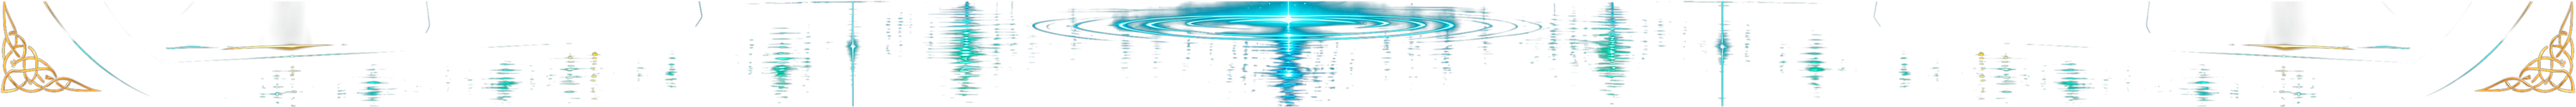
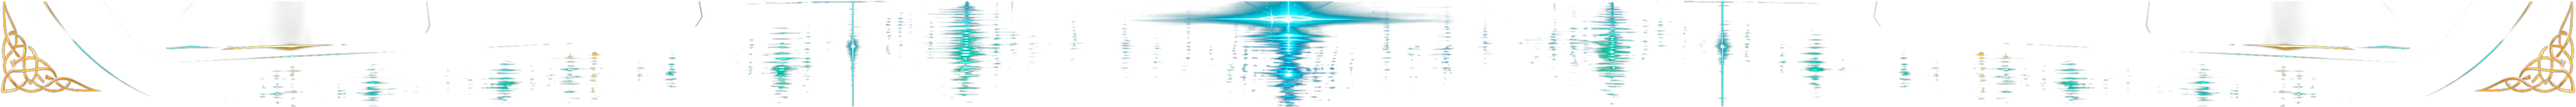
Szene: starre Wasserringe entfernt (Magnific), Wellenringe pulsieren mit Tempo-Rampe (schnell los, langsam aus), Rauch als Wolkenbäusche ohne Kanten, Schriftzug eingraviert, Drachen weiter außen, Bedeutung läuft im drehenden Runenring mit; Runen unter dem Horizont ausgeblendet; Prüfhilfe ?aus=…

Changed region(s): [[0.3746, 0.0, 0.6243, 0.443]]

diff --git a/hud5/szene.js b/hud5/szene.js
@@ -18,21 +18,39 @@ function bildLaden(url) {
 function leinwand(b, h) { const c = document.createElement('canvas'); c.width = b; c.height = h; return c }
 function zufallsfolge(s) { return () => { s = (s * 16807) % 2147483647; return s / 2147483647 } }
 
-/** Runenring vorzeichnen: volle Runde, Runen tangential, mit Lichthof (einmal beim Laden) */
-function ringBild(r, hoehe, anzahl, versatz = 0) {
+/**
+ * Runenring vorzeichnen: volle Runde, Runen tangential, mit Lichthof (einmal beim Laden). Mit `text` läuft dazu ein
+ * Schriftzug im Ring mit (Wunsch Auftraggeber 05.11.2026: die volle Bedeutung von L.O.K.I. dreht sich mit) – an seiner
+ * Stelle entfallen so viele Runen, wie er Platz braucht.
+ */
+function ringBild(r, hoehe, anzahl, versatz = 0, text = '') {
   const rand = hoehe * 2, gr = Math.ceil(2 * (r + rand))
   const c = leinwand(gr, gr), g = c.getContext('2d')
   g.translate(gr / 2, gr / 2)
   g.lineCap = 'round'; g.lineJoin = 'round'
+  g.font = `600 ${Math.round(hoehe * 0.72)}px Georgia, "Times New Roman", serif`; g.textAlign = 'center'; g.textBaseline = 'middle'
+  const schritt = (Math.PI * 2) / anzahl, abstand = hoehe * 0.12
+  const breiten = [...text].map((z) => (g.measureText(z).width + abstand) / r)
+  const textWinkel = breiten.reduce((a, b) => a + b, 0)
+  const frei = text ? Math.ceil((textWinkel + schritt) / schritt) : 0 // Runen-Plätze, die der Text belegt
   for (let durchgang = 0; durchgang < 2; durchgang++) {
     // erst weiches Leuchten, dann der scharfe helle Kern
-    g.strokeStyle = durchgang ? '#d8fdff' : CYAN
+    g.strokeStyle = g.fillStyle = durchgang ? '#d8fdff' : CYAN
     g.lineWidth = durchgang ? Math.max(1.4, hoehe * 0.075) : hoehe * 0.12
     g.shadowColor = CYAN; g.shadowBlur = durchgang ? hoehe * 0.35 : hoehe * 0.9
     for (let i = 0; i < anzahl; i++) {
-      g.save(); g.rotate((i / anzahl) * Math.PI * 2); g.translate(0, -r)
+      // Plätze rund um 0 (oben) für den Text frei lassen
+      const abstandZurMitte = Math.min(i, anzahl - i)
+      if (frei && abstandZurMitte <= (frei - 1) / 2) continue
+      g.save(); g.rotate(i * schritt); g.translate(0, -r)
       rune(g, FOLGE[(i + versatz) % FOLGE.length], hoehe)
       g.restore()
+    }
+    let w = -textWinkel / 2 // von links nach rechts über die Oberseite
+    for (const [i, z] of [...text].entries()) {
+      w += breiten[i] / 2
+      g.save(); g.rotate(w); g.translate(0, -r); g.fillText(z, 0, 0); g.restore()
+      w += breiten[i] / 2
     }
   }
   return c
@@ -42,8 +60,8 @@ function ringBild(r, hoehe, anzahl, versatz = 0) {
 function ringMaske(gr) {
   const c = leinwand(gr, gr), g = c.getContext('2d')
   const v = g.createConicGradient(Math.PI / 2, gr / 2, gr / 2) // beginnt unten, läuft im Uhrzeigersinn
-  v.addColorStop(0, 'rgba(0,0,0,0)'); v.addColorStop(0.07, 'rgba(0,0,0,0)'); v.addColorStop(0.2, '#000')
-  v.addColorStop(0.8, '#000'); v.addColorStop(0.93, 'rgba(0,0,0,0)'); v.addColorStop(1, 'rgba(0,0,0,0)')
+  v.addColorStop(0, 'rgba(0,0,0,0)'); v.addColorStop(0.13, 'rgba(0,0,0,0)'); v.addColorStop(0.25, '#000')
+  v.addColorStop(0.75, '#000'); v.addColorStop(0.87, 'rgba(0,0,0,0)'); v.addColorStop(1, 'rgba(0,0,0,0)') // unter dem Horizont keine Runen
   g.fillStyle = v; g.fillRect(0, 0, gr, gr)
   return c
 }
@@ -127,7 +145,7 @@ export async function ladeSzene(basis) {
   const namen = ['grund', ...Object.keys(geo.ebenen)]
   const bilder = Object.fromEntries(await Promise.all(namen.map(async (n) => [n, await bildLaden(basis + n + '.webp')])))
   const zufall = zufallsfolge(7)
-  const ringMitte = ringBild(geo.ringMitte.r, 30, 24)
+  const ringMitte = ringBild(geo.ringMitte.r, 30, 24, 0, 'LOKALE · OHNEHIN · KLÜGERE · INTELLIGENZ')
   return {
     geo, bilder,
     ringMitte, ringMitteMaske: ringMaske(ringMitte.width), ringPuffer: leinwand(ringMitte.width, ringMitte.height),
@@ -136,8 +154,7 @@ export async function ladeSzene(basis) {
     bahnRechts: bahnVorbereiten(geo.bahnRechts, false),
     nebel: nebelBild(2400, 300, zufall),
     nebel2: nebelBild(2400, 300, zufall, 60),
-    rauchStreifen: leinwand(1900, 260), rauchMaske: rauchMaske(1900, 260),
-    bedeutung: bedeutungBild(),
+    rauchStreifen: leinwand(1700, 300), rauchMaske: rauchMaske(1700, 300), wolke: wolkeBild(1024, 220, zufall),
     spiegel: geo.ebenen.reaktor ? spiegelBild(bilder.reaktor, geo.ebenen.reaktor) : null,
     blitze: [], naechsterBlitz: 0,
   }
@@ -196,79 +213,76 @@ function wasser(g, s, t, anteil) {
   g.globalAlpha = 1; g.globalCompositeOperation = 'source-over'
 }
 
-// Unter dem Reaktor (Rückmeldung Auftraggeber 05.11.2026): keine Nebelfläche über dem ganzen See, sondern Rauchwolken
-// nur zwischen Reaktor und Wasser rund um die Lichtringe; die Ringe laufen sanft von innen nach außen wie Wellen nach
-// einem Steinwurf, der Rauch liegt darüber.
-const RING_MITTE = { x: 2880, y: 890 }, RING_RX = 600, RING_RY = 46 // Lichtringe auf dem Wasser (Grundbild)
+// Unter dem Reaktor (Rückmeldung Auftraggeber 05.11.2026): die starren Lichtringe sind aus dem Grundbild entfernt
+// (Magnific), stattdessen pulsieren Wellenringe von innen nach außen – schnell los, dann langsam ausklingend (wie eine
+// Tempo-Rampe im Video) –, darüber liegen Rauchwolken nur zwischen Reaktor und Wasser.
+const RING_MITTE = { x: 2880, y: 890 }, RING_RX = 640, RING_RY = 48
 
-/** Wellenringe: alle 2,6 s ein neuer, wächst von innen nach außen, wird dabei dünner und blasser */
+/** Wellenringe: alle 3,2 s ein neuer Puls; Radius läuft mit starker Abbremsung (schnell → langsam), Licht klingt aus */
 function wellen(g, t, anteil) {
   if (anteil <= 0) return
-  const takt = 2.6, lebens = 7.5
+  const takt = 3.2, lebens = 9
   g.save(); g.globalCompositeOperation = 'lighter'
   for (let k = Math.floor((t - lebens) / takt) + 1; k * takt <= t; k++) {
     const f = (t - k * takt) / lebens
     if (f < 0 || f > 1) continue
-    const rx = 30 + f * RING_RX * 1.05, ry = rx * (RING_RY / RING_RX)
-    const deck = anteil * Math.min(1, f / 0.08) * (1 - f) ** 1.6
-    for (const [breite, farbe, d] of [[9, 'rgba(95,246,255,1)', 0.12], [3, 'rgba(150,250,255,1)', 0.35], [1.2, '#eaffff', 0.7]]) {
+    const weg = 1 - (1 - f) ** 4 // Tempo-Rampe: schnell anfangen, lange langsam auslaufen
+    const rx = 20 + weg * RING_RX, ry = rx * (RING_RY / RING_RX)
+    const deck = anteil * Math.min(1, f / 0.03) * (1 - f) ** 2.2
+    for (const [breite, farbe, d] of [[12, 'rgba(95,246,255,1)', 0.13], [4, 'rgba(150,250,255,1)', 0.4], [1.4, '#eaffff', 0.85]]) {
       g.beginPath(); g.ellipse(RING_MITTE.x, RING_MITTE.y, rx, ry, 0, 0, Math.PI * 2)
-      g.lineWidth = breite * (1 - f * 0.5); g.strokeStyle = farbe; g.globalAlpha = deck * d; g.stroke()
+      g.lineWidth = breite * (1.2 - weg * 0.6); g.strokeStyle = farbe; g.globalAlpha = deck * d; g.stroke()
     }
   }
   g.restore()
 }
 
-/** Rauch zwischen Reaktor und Wasser: weiche Wolken, die langsam um die Mitte treiben, zusammengehalten von einer
- *  elliptischen Maske (dicht in der Mitte, zum Rand weich) – der Reaktor darüber bleibt frei */
+/** Rauch zwischen Reaktor und Wasser: wolkige, gebauschte Schwaden (eigene Rauchtextur), zwei Lagen gegenläufig,
+ *  elliptisch nach allen Seiten weich ausgeblendet – keine Kanten, der Reaktor darüber bleibt frei */
 function rauch(g, s, t, anteil) {
   if (anteil <= 0) return
-  const st = s.rauchStreifen, sg = st.getContext('2d')
+  const st = s.rauchStreifen, sg = st.getContext('2d'), w = s.wolke
   sg.globalCompositeOperation = 'source-over'; sg.clearRect(0, 0, st.width, st.height)
-  for (const [bild, tempo, dy, hoch, deck] of [[s.nebel, 9, -40, 1.1, 1], [s.nebel2, -7, 0, 1.0, 1], [s.nebel, 5, 50, 0.9, 0.9], [s.nebel2, -3, -90, 1.2, 0.8]]) {
+  for (const [tempo, dy, skala, deck] of [[7, 30, 1, 1], [-4.5, 70, 1.35, 0.85], [2.5, 10, 0.8, 0.7]]) {
     sg.globalAlpha = deck
-    const start = -(((t * tempo) % bild.width) + bild.width) % bild.width
-    for (let px = start; px < st.width; px += bild.width) sg.drawImage(bild, px, dy, bild.width, bild.height * hoch)
+    const bw = w.width * skala, bh = w.height * skala, start = -(((t * tempo) % bw) + bw) % bw
+    for (let px = start; px < st.width; px += bw) sg.drawImage(w, px, dy + Math.sin(t * 0.2 + skala) * 8, bw, bh)
   }
   sg.globalAlpha = 1; sg.globalCompositeOperation = 'destination-in'; sg.drawImage(s.rauchMaske, 0, 0)
   g.globalCompositeOperation = 'screen'
-  for (const d of [1, 0.7]) { g.globalAlpha = anteil * d; g.drawImage(st, RING_MITTE.x - st.width / 2, RING_MITTE.y - st.height * 0.62) }
+  for (const d of [1, 0.6]) { g.globalAlpha = anteil * d; g.drawImage(st, RING_MITTE.x - st.width / 2, RING_MITTE.y - st.height * 0.55) } // doppelt: dichter, wolkiger
   g.globalAlpha = 1; g.globalCompositeOperation = 'source-over'
 }
 
-/** elliptische Maske für den Rauch: Mitte dicht, Rand weich, oben (zum Reaktor) schneller ausgeblendet */
+/** elliptische Maske: Mitte dicht, nach allen Seiten weich auf null (unten, oben, links, rechts – keine harte Kante) */
 function rauchMaske(b, h) {
   const c = leinwand(b, h), g = c.getContext('2d')
-  g.save(); g.translate(b / 2, h * 0.62); g.scale(1, (h * 0.5) / (b / 2))
+  g.translate(b / 2, h * 0.55); g.scale(1, (h * 0.45) / (b / 2))
   const v = g.createRadialGradient(0, 0, 0, 0, 0, b / 2)
-  v.addColorStop(0, '#000'); v.addColorStop(0.45, 'rgba(0,0,0,0.85)'); v.addColorStop(1, 'rgba(0,0,0,0)')
-  g.fillStyle = v; g.fillRect(-b / 2, -b, b, 2 * b); g.restore()
-  g.globalCompositeOperation = 'destination-in'
-  const u = g.createLinearGradient(0, 0, 0, h); u.addColorStop(0, 'rgba(0,0,0,0)'); u.addColorStop(0.35, '#000'); u.addColorStop(1, '#000')
-  g.fillStyle = u; g.fillRect(0, 0, b, h)
+  v.addColorStop(0, '#000'); v.addColorStop(0.4, 'rgba(0,0,0,0.9)'); v.addColorStop(0.75, 'rgba(0,0,0,0.35)'); v.addColorStop(1, 'rgba(0,0,0,0)')
+  g.fillStyle = v; g.fillRect(-b / 2, -b, b, 2 * b)
   return c
 }
 
-/** volle Bedeutung von L.O.K.I. direkt unter dem Steinring, ihm folgend gebogen (im Steinband selbst war neben
- *  Schriftzug, Drachen und Metallplatten kein Platz) */
-const BEDEUTUNG = 'LOKALE · OHNEHIN · KLÜGERE · INTELLIGENZ', BEDEUTUNG_R = 348
-function bedeutungBild(r) {
-  const gr = Math.ceil((BEDEUTUNG_R + 40) * 2), c = leinwand(gr, gr), g = c.getContext('2d')
-  g.translate(gr / 2, gr / 2)
-  g.font = '600 15px Georgia, "Times New Roman", serif'; g.textAlign = 'center'; g.textBaseline = 'middle'
-  const abstand = 1.6, breiten = [...BEDEUTUNG].map((z) => g.measureText(z).width + abstand)
-  const gesamt = breiten.reduce((a, b) => a + b, 0) / BEDEUTUNG_R
-  for (let d = 0; d < 2; d++) {
-    let w = Math.PI / 2 + gesamt / 2 // unten mittig, von links nach rechts lesbar (Buchstaben-Kopf zur Mitte)
-    g.fillStyle = d ? '#e6feff' : '#5ff6ff'; g.shadowColor = '#5ff6ff'; g.shadowBlur = d ? 4 : 10
-    for (const [i, z] of [...BEDEUTUNG].entries()) {
-      const halb = breiten[i] / 2 / BEDEUTUNG_R
-      w -= halb
-      g.save(); g.translate(Math.cos(w) * BEDEUTUNG_R, Math.sin(w) * BEDEUTUNG_R); g.rotate(w - Math.PI / 2); g.fillText(z, 0, 0); g.restore()
-      w -= halb
+/** Rauchtextur: viele weiche, verschieden große Bäusche (große blasse unten, kleine dichtere darüber), dazwischen
+ *  Lücken – wirkt wolkig statt flächig; waagerecht nahtlos wiederholbar; einmal beim Laden gezeichnet */
+function wolkeBild(b, h, zufall) {
+  const c = leinwand(b, h), g = c.getContext('2d')
+  const bausch = (x, y, r, a) => {
+    for (const dx of [-b, 0, b]) {
+      const v = g.createRadialGradient(x + dx, y, 0, x + dx, y, r)
+      v.addColorStop(0, `rgba(185,228,238,${a})`); v.addColorStop(0.5, `rgba(170,220,232,${a * 0.55})`); v.addColorStop(1, 'rgba(160,215,228,0)')
+      g.fillStyle = v; g.fillRect(x + dx - r, y - r, 2 * r, 2 * r)
     }
   }
-  void r
+  // Ballen: Gruppen von Bäuschen um gemeinsame Mittelpunkte → Wolkenform mit Rändern und Lücken
+  for (let k = 0; k < 26; k++) {
+    const mx = zufall() * b, my = h * (0.35 + zufall() * 0.35), gr = 40 + zufall() * 70
+    for (let i = 0; i < 16; i++) {
+      const w = zufall() * Math.PI * 2, d = zufall() * gr
+      bausch(mx + Math.cos(w) * d * 1.8, my + Math.sin(w) * d * 0.5, 18 + zufall() * 38, 0.09 + zufall() * 0.12)
+    }
+  }
   return c
 }
 
@@ -437,15 +451,12 @@ function mittelRing(g, s, winkel, alpha) {
   g.globalAlpha = 1; g.globalCompositeOperation = 'source-over'
 }
 
-/** verkleinerter L.O.K.I.-Schriftzug mit Drachen (atmet leicht mit dem Kern) und die volle Bedeutung darunter */
+/** verkleinerter L.O.K.I.-Schriftzug mit Drachen, in den Stein graviert (dunkle Rille), leuchtet leicht im Takt des Kerns */
 function schrift(g, s, t, anteil) {
   if (anteil <= 0) return
   const hell = anteil * (0.9 + 0.1 * Math.sin((t * Math.PI * 2) / 2.8))
+  ebene(g, s, 'gravur', anteil * 0.75, 'source-over')
   ebene(g, s, 'schrift', hell)
-  const b = s.bedeutung, r = s.geo.reaktor
-  g.globalAlpha = hell * 0.95; g.globalCompositeOperation = 'lighter'
-  g.drawImage(b, r.x - b.width / 2, r.y - b.height / 2)
-  g.globalAlpha = 1; g.globalCompositeOperation = 'source-over'
 }
 
 /**
@@ -462,14 +473,15 @@ export function zeichneSzene(g, s, t, opt = {}) {
   g.fillStyle = '#000'; g.fillRect(0, 0, B, H)
   g.globalAlpha = an.grund; g.drawImage(s.bilder.grund, 0, 0, B, H); g.globalAlpha = 1
 
-  aurora(g, s, t, an.aurora)
+  const mit = (n) => !(opt.aus ?? []).includes(n) // Prüfhilfe: einzelne Teile weglassen
+  if (mit('aurora')) aurora(g, s, t, an.aurora)
   // aufsteigender Rauch hinter dem Reaktor entfernt (Rückmeldung Auftraggeber 05.11.2026: Reaktor soll klar bleiben)
   ebene(g, s, 'reaktor', an.grund, 'source-over') // deckt den Rauch hinter dem Reaktor ab
-  wasser(g, s, t, an.reaktor)
-  wellen(g, t, an.reaktor)
-  rauch(g, s, t, an.nebel)
-  reaktor(g, s, t, opt, an.reaktor)
-  schrift(g, s, t, an.reaktor)
+  if (mit('wasser')) wasser(g, s, t, an.reaktor)
+  if (mit('wellen')) wellen(g, t, an.reaktor)
+  if (mit('rauch')) rauch(g, s, t, an.nebel)
+  if (mit('reaktor')) reaktor(g, s, t, opt, an.reaktor)
+  if (mit('schrift')) schrift(g, s, t, an.reaktor)
 
   const denkt = opt.loki === 'denkt' ? 1 : 0
   const hell = an.runen * (0.85 + 0.15 * Math.sin(t * 0.63))

diff --git a/hud5/vorschau.js b/hud5/vorschau.js
@@ -15,7 +15,7 @@ function schleife(ms) {
   requestAnimationFrame(schleife)
   const a = performance.now()
   const pegel = loki === 'spricht' ? 0.5 + 0.5 * Math.abs(Math.sin(ms / 130) * Math.sin(ms / 370)) : 0
-  zeichneSzene(g, s, ms / 1000, { loki, pegel, versatz: zoom ? 1920 : 0 })
+  zeichneSzene(g, s, ms / 1000, { loki, pegel, versatz: zoom ? 1920 : 0, aus: (new URLSearchParams(location.search).get('aus') ?? '').split(',') })
   const dauer = performance.now() - a
   zeiten.push(dauer); if (zeiten.length > 120) zeiten.shift()
   laengste = Math.max(laengste * 0.995, ms - vorher); vorher = ms

diff --git a/scripts/grafik-v5-aufbereiten.py b/scripts/grafik-v5-aufbereiten.py
@@ -58,15 +58,36 @@ if quelle == 'magnific' and os.path.exists('grafik/magnific/reaktor_ohne_schrift
     maske = np.asarray(Image.open('grafik/magnific/reaktor_maske.png').convert('L').resize(neu.size)) > 127
     licht = np.clip((alt - np.asarray(neu).astype(np.int16)) * 1.5, 0, 255) * maske[..., None]  # etwas heller: kleiner wirkt sonst blass
     gross = gross.copy(); gross.paste(neu, box[:2])
-    # Licht um die eigene Mitte verkleinern (bleibt mittig im Steinband, darunter Platz für die Bedeutung)
-    ys, xs = np.nonzero(licht.max(axis=2) > 20)
-    mx, my = (xs.min() + xs.max()) / 2, (ys.min() + ys.max()) / 2
-    l = Image.fromarray(licht.astype(np.uint8)); kb = (round(l.width * SCHRIFT_FAKTOR), round(l.height * SCHRIFT_FAKTOR))
-    klein = l.resize(kb, Image.LANCZOS)
-    schrift = Image.new('RGB', l.size)
-    schrift.paste(klein, (round(mx - mx * SCHRIFT_FAKTOR), round(my - my * SCHRIFT_FAKTOR + 24)))  # etwas tiefer: weg von den Spulen
+    # Drei Teile (Drache links, Schrift, Drache rechts) an den Lücken zwischen ihnen trennen und je um die eigene Mitte
+    # verkleinern. Die Schrift bleibt mittig (etwas tiefer, weg von den Spulen); die Drachen rücken weiter nach außen
+    # (Rückmeldung Auftraggeber 05.11.2026), fast an ihre alte Stelle auf dem Stein.
+    hell = licht.max(axis=2) > 20
+    ys, xs = np.nonzero(hell)
+    # Drachen = die großen zusammenhängenden Leuchtflächen ganz links und ganz rechts (die Buchstaben sind klein)
+    teile = cv2.dilate((licht.max(axis=2) > 120).astype(np.uint8), np.ones((3, 3), np.uint8))
+    n, lab, st, _ = cv2.connectedComponentsWithStats(teile)
+    gross_ = [i for i in range(1, n) if st[i][3] > 180]  # Drachen sind deutlich höher als die Buchstaben
+    li = min(gross_, key=lambda i: st[i][0]); re = max(gross_, key=lambda i: st[i][0] + st[i][2])
+    links, rechts = (st[li][0] + st[li][2], st[li][0] + st[li][2]), (st[re][0], st[re][0])
+    luecken = [links, rechts]
+    grenzen = [xs.min(), st[li][0] + st[li][2] + 2, st[re][0] - 2, xs.max() + 1]
+    gx = (xs.min() + xs.max()) / 2
+    l = Image.fromarray(licht.astype(np.uint8)); schrift = Image.new('RGB', l.size)
+    for teil, (x0, x1) in enumerate(zip(grenzen[:-1], grenzen[1:])):
+        ty, tx = np.nonzero(hell[:, x0:x1]); y0, y1 = ty.min(), ty.max() + 1
+        stueck = l.crop((x0, y0, x1, y1)); kb = (round(stueck.width * SCHRIFT_FAKTOR), round(stueck.height * SCHRIFT_FAKTOR))
+        cx, cy = (x0 + x1) / 2, (y0 + y1) / 2
+        if teil == 1: ziel = (cx, cy + 24)  # Schrift
+        else: ziel = (gx + (cx - gx) * 0.86, cy + 6)  # Drachen: weiter außen als bei reiner Verkleinerung
+        schrift.paste(stueck.resize(kb, Image.LANCZOS), (round(ziel[0] - kb[0] / 2), round(ziel[1] - kb[1] / 2)))
     gs = Image.new('RGB', gross.size); gs.paste(schrift, box[:2]); schrift = gs
-    print('Schrift im Reaktor: verkleinert auf', SCHRIFT_FAKTOR)
+    print('Schrift im Reaktor: verkleinert auf', SCHRIFT_FAKTOR, '– Lücken', luecken[:1], luecken[-1:])
+# Wasser: die starren Lichtringe unter dem Reaktor hat Magnific wegradiert (Rückmeldung Auftraggeber 05.11.2026 –
+# die Szene lässt eigene Ringe pulsieren, starre darunter sahen falsch aus)
+if quelle == 'magnific' and os.path.exists('grafik/magnific/wasser_ohne_ringe.png'):
+    box = json.load(open('grafik/magnific/wasser_ausschnitt.json'))['box']
+    gross = gross.copy(); gross.paste(Image.open('grafik/magnific/wasser_ohne_ringe.png').convert('RGB').resize((box[2] - box[0], box[3] - box[1])), box[:2])
+    print('Wasser: starre Ringe ersetzt')
 grund = np.asarray(gross.resize((B, H), Image.LANCZOS)).copy()
 print('Grundbild', quelle, gross.size)
 
@@ -145,6 +166,12 @@ if schrift is not None:  # additiv: Farbe = Licht, Deckkraft voll (die Szene leg
     a = np.asarray(schrift).astype(np.float32); al = a.max(axis=2)
     farbe = np.clip(a * 255 / np.maximum(al, 1)[..., None], 0, 255)
     s4 = Image.fromarray(np.dstack([farbe, al]).astype(np.uint8), 'RGBA'); ebene('schrift', s4)
+    # Gravur: dunkle Rille unter der Leuchtschrift (leicht versetzt, weich) – damit die Schrift im Stein sitzt statt
+    # darüber zu schweben (Rückmeldung Auftraggeber 05.11.2026)
+    rille = cv2.GaussianBlur((al > 40).astype(np.float32), (0, 0), 2.5)
+    rille = np.roll(np.roll(rille, 3, axis=0), 2, axis=1)
+    g4 = np.zeros((*rille.shape, 4), np.uint8); g4[..., 3] = np.clip(rille * 200, 0, 255).astype(np.uint8)
+    ebene('gravur', Image.fromarray(g4, 'RGBA'))
 # Reaktor-Kern scharf aus dem Grundbild, Form aus der Kern-Maske (für das Pulsieren)
 kern = monitore([None, A + 'MITTE_REAKTOR_RING_01_ORIGINAL_PIXELS_3840x2160.png', None]).resize((B, H), Image.LANCZOS)
 kernScharf = Image.fromarray(grund).convert('RGBA'); kernScharf.putalpha(kern.getchannel('A')); ebene('kern', kernScharf)
